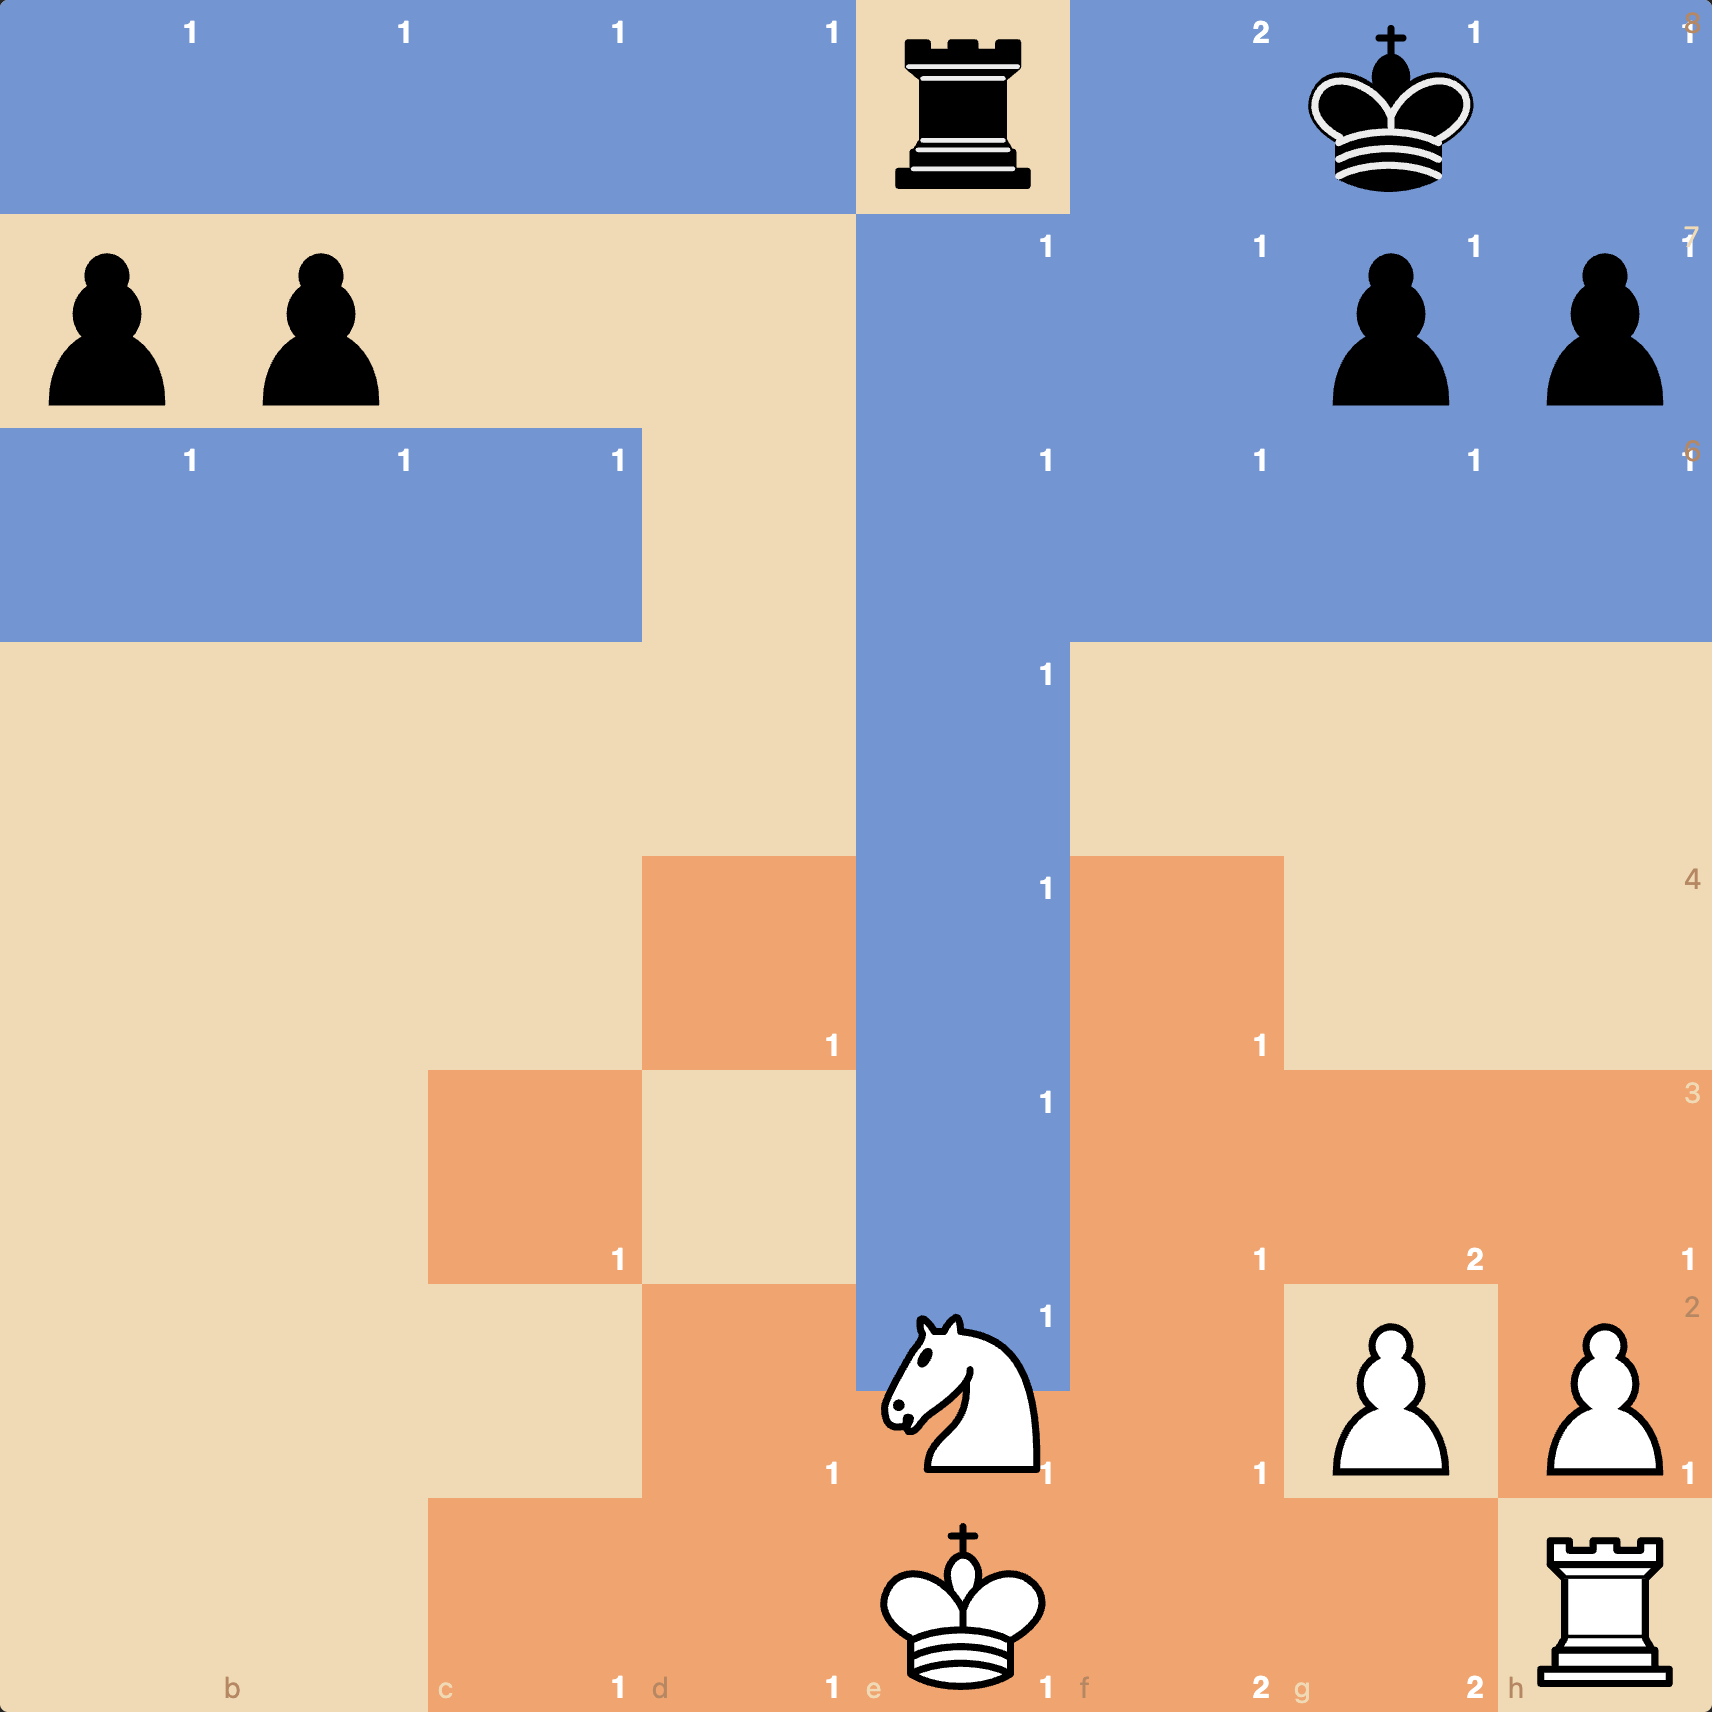
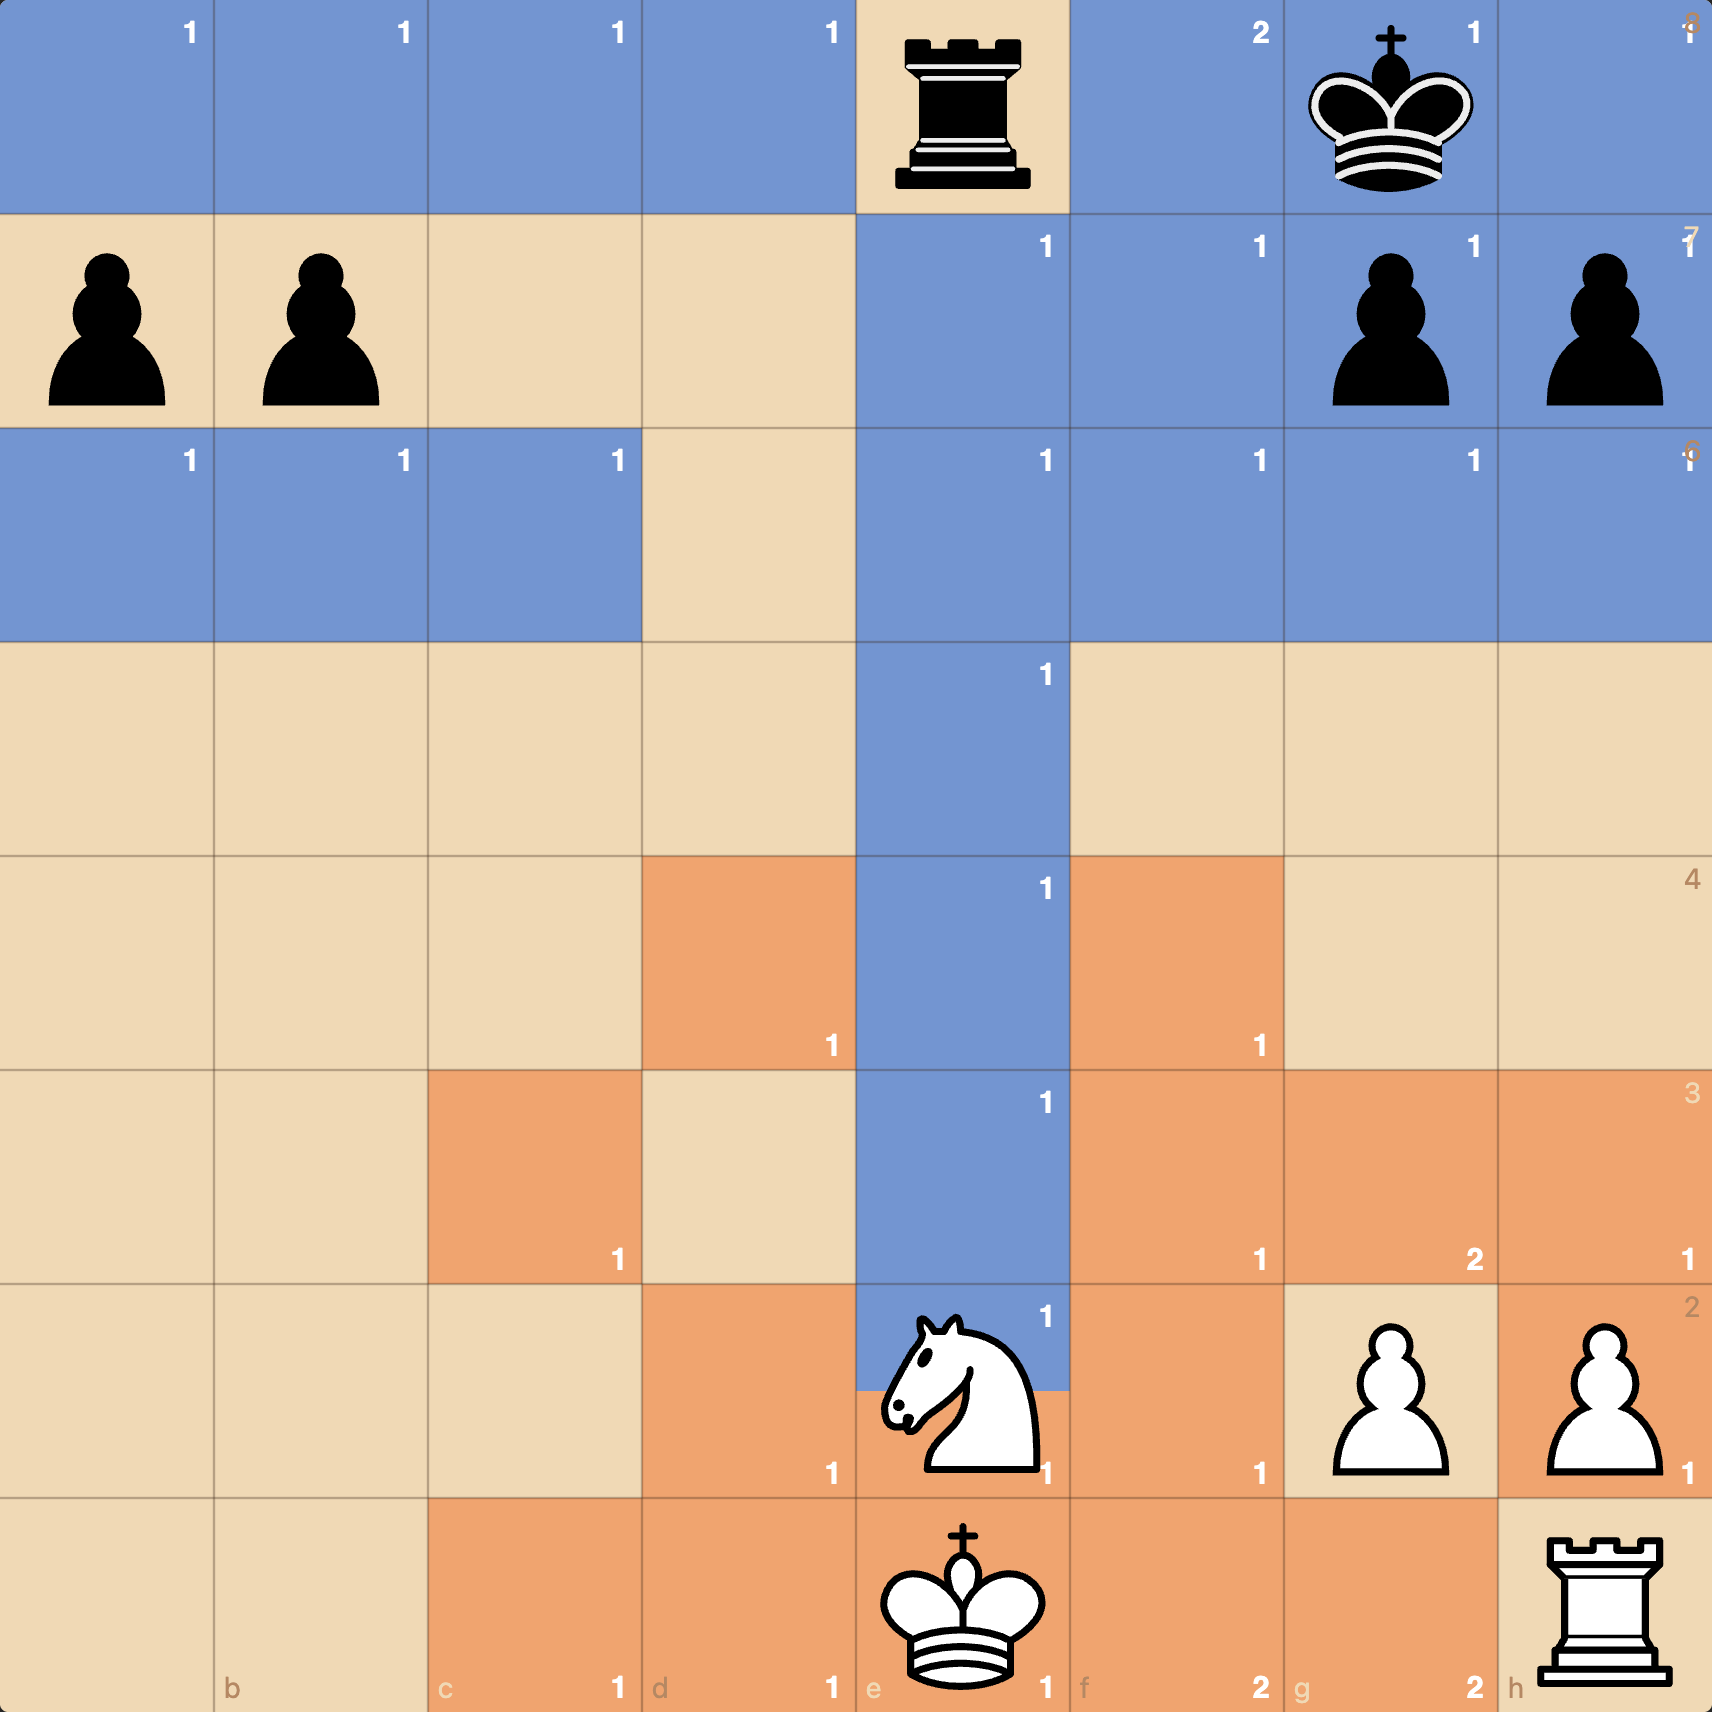
pressure: thin grid lines on top of fills so individual squares stay readable

diff --git a/js/viz1-control.js b/js/viz1-control.js
@@ -31,9 +31,26 @@ export function render(container, fen, controls) {
   }));
 
   drawProportionalFills(layers.control, ctrl);
+  drawGrid(layers.control);
   if (controls.showCounts) drawCounts(layers.control, ctrl);
 
   renderPieces(layers.pieces, board);
+}
+
+// Thin grid lines on top of the fills, so adjacent solid-colour squares stay distinguishable.
+function drawGrid(layer) {
+  const stroke = 'rgba(60, 40, 25, 0.32)';
+  for (let i = 1; i < 8; i++) {
+    const v = i * SQ;
+    layer.appendChild(el('line', {
+      x1: v, y1: 0, x2: v, y2: 8 * SQ,
+      stroke, 'stroke-width': 1,
+    }));
+    layer.appendChild(el('line', {
+      x1: 0, y1: v, x2: 8 * SQ, y2: v,
+      stroke, 'stroke-width': 1,
+    }));
+  }
 }
 
 function drawProportionalFills(layer, ctrl) {
